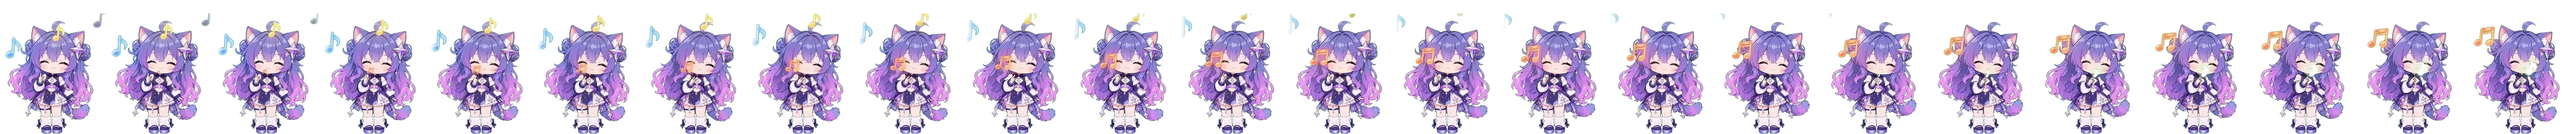
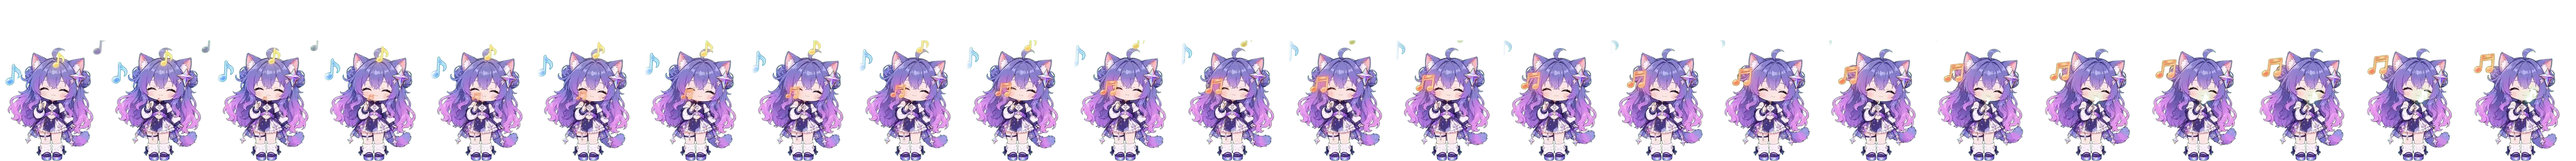
feat(mascot): 越界动作改用更高的格子
happy 与 idle-spout 的格子从 48×60 放大到 48×72，素材脚本按动作读格子高度；
精灵窗口改为贴容器底边往上长，音符与爱心不再被顶部裁掉。其他动作不变。

diff --git a/packages/client/src/features/mascot/sheets.ts b/packages/client/src/features/mascot/sheets.ts
@@ -152,21 +152,21 @@ export const GEMINI_FRAME_MS = 83
 export const GEMINI_SHEETS: Record<string, { frames: number, box: number[], still: number, columns: number }> = {
   'idle': { frames: 48, box: [0, 0, 48, 60], still: 0, columns: 48 },
   'idle-look': { frames: 24, box: [0, 0, 48, 60], still: 0, columns: 24 },
-  'idle-spout': { frames: 24, box: [0, 0, 48, 60], still: 0, columns: 24 },
+  'idle-spout': { frames: 24, box: [0, 0, 48, 72], still: 0, columns: 24 },
   'thinking': { frames: 24, box: [0, 0, 48, 60], still: 8, columns: 24 },
   'typing': { frames: 24, box: [0, 0, 48, 60], still: 8, columns: 24 },
   'music': { frames: 24, box: [0, 0, 48, 60], still: 0, columns: 24 },
   'conducting': { frames: 24, box: [0, 0, 48, 60], still: 0, columns: 24 },
   'building': { frames: 24, box: [0, 0, 48, 60], still: 0, columns: 24 },
   'error': { frames: 20, box: [0, 0, 48, 60], still: 0, columns: 20 },
-  'happy': { frames: 24, box: [0, 0, 48, 60], still: 0, columns: 24 },
+  'happy': { frames: 24, box: [0, 0, 48, 72], still: 0, columns: 24 },
   'notification': { frames: 20, box: [0, 0, 48, 60], still: 0, columns: 20 },
   'compacting': { frames: 24, box: [0, 0, 48, 60], still: 0, columns: 24 },
   'sleeping': { frames: 48, box: [0, 0, 48, 60], still: 0, columns: 48 },
   'waking': { frames: 24, box: [0, 0, 48, 60], still: 0, columns: 24 },
   'poke-left': { frames: 20, box: [0, 0, 48, 60], still: 0, columns: 20 },
   'poke-right': { frames: 20, box: [0, 0, 48, 60], still: 0, columns: 20 },
-  'tickle': { frames: 24, box: [0, 0, 48, 60], still: 0, columns: 24 },
+  'tickle': { frames: 24, box: [0, 0, 48, 72], still: 0, columns: 24 },
   'drag': { frames: 24, box: [0, 0, 48, 60], still: 0, columns: 24 },
   'landing': { frames: 6, box: [0, 0, 48, 60], still: 5, columns: 48 },
 }
@@ -181,14 +181,14 @@ export const QWEN_FRAME_MS = 83
 export const QWEN_SHEETS: Record<string, { frames: number, box: number[], still: number, columns: number }> = {
   'idle': { frames: 48, box: [0, 0, 48, 60], still: 0, columns: 48 },
   'idle-look': { frames: 24, box: [0, 0, 48, 60], still: 0, columns: 24 },
-  'idle-spout': { frames: 24, box: [0, 0, 48, 60], still: 0, columns: 24 },
+  'idle-spout': { frames: 24, box: [0, 0, 48, 72], still: 0, columns: 24 },
   'thinking': { frames: 24, box: [0, 0, 48, 60], still: 8, columns: 24 },
   'typing': { frames: 24, box: [0, 0, 48, 60], still: 8, columns: 24 },
   'music': { frames: 24, box: [0, 0, 48, 60], still: 0, columns: 24 },
   'conducting': { frames: 24, box: [0, 0, 48, 60], still: 0, columns: 24 },
   'building': { frames: 24, box: [0, 0, 48, 60], still: 0, columns: 24 },
   'error': { frames: 20, box: [0, 0, 48, 60], still: 0, columns: 20 },
-  'happy': { frames: 24, box: [0, 0, 48, 60], still: 0, columns: 24 },
+  'happy': { frames: 24, box: [0, 0, 48, 72], still: 0, columns: 24 },
   'notification': { frames: 24, box: [0, 0, 48, 60], still: 0, columns: 24 },
   'compacting': { frames: 24, box: [0, 0, 48, 60], still: 0, columns: 24 },
   'sleeping': { frames: 48, box: [0, 0, 48, 60], still: 0, columns: 48 },

diff --git a/packages/client/src/features/mascot/anime-pet.css b/packages/client/src/features/mascot/anime-pet.css
@@ -23,6 +23,13 @@ body[data-dsh-claude-style] :is(
   bottom: calc(100% - 7px);
 }
 
+/* A taller cell grows upward: the sprite's bottom edge stays on the
+   container's, so the pet keeps its feet on the card and takes the room
+   above it. */
+body[data-dsh-claude-style] :is(.dsh-claude-gemini, .dsh-claude-qwen) > :is(.dsh-claude-gemini-sprite, .dsh-claude-qwen-sprite) {
+  top: calc((60 - var(--dsh-claude-mascot-h, 60)) * 2px);
+}
+
 /* The resting girl's body, head to feet: most of the 96×120 box. */
 body[data-dsh-claude-style] :is(.dsh-claude-gemini-hit, .dsh-claude-qwen-hit) {
   position: absolute;

diff --git a/scripts/build-mascot-sheets.py b/scripts/build-mascot-sheets.py
@@ -214,16 +214,20 @@ def main():
             # The pack draws some actions smaller than the idle one; `scale`
             # lifts one back to the idle height, and whatever then stands
             # outside the cell is cropped off.
-            fit = min(base, OUT_W / width, OUT_H / height)
+            # An action may ask for a taller cell than the shared 48x60, so the
+            # art that would run past its top keeps the room it needs.
+            cell_h = action.get('cell', CELL_H)
+            out_h = cell_h * 4
+            fit = min(base, OUT_W / width, out_h / height)
             scale = fit * action.get('scale', 1)
-            strip = Image.new('RGBA', (frames * OUT_W, OUT_H), (0, 0, 0, 0))
+            strip = Image.new('RGBA', (frames * OUT_W, out_h), (0, 0, 0, 0))
             w = max(1, round(width * scale))
             h = max(1, round(height * scale))
             # Art wider or taller than the cell keeps its centre and ground
             # line; the edges it runs past fade out before the cell cuts them.
             left = max(0, (w - OUT_W) // 2)
-            top = max(0, h - OUT_H)
-            piece_size = (min(w, OUT_W), min(h, OUT_H))
+            top = max(0, h - out_h)
+            piece_size = (min(w, OUT_W), min(h, out_h))
             mask = None
             if top > 0 or w > OUT_W:
                 mask = edge_mask(piece_size, EDGE_FADE, top > 0, w > OUT_W)
@@ -233,16 +237,16 @@ def main():
                 piece = frame.crop((left, top, left + piece_size[0], top + piece_size[1]))
                 if mask is not None:
                     piece.putalpha(ImageChops.multiply(piece.getchannel('A'), mask))
-                strip.alpha_composite(piece, (index * OUT_W + max(0, (OUT_W - w) // 2), max(0, OUT_H - h)))
+                strip.alpha_composite(piece, (index * OUT_W + max(0, (OUT_W - w) // 2), max(0, out_h - h)))
             path = out_dir / f'{key}.webp'
             strip.save(path, 'WEBP', quality=82, method=6)
             derived[key] = {
                 'frames': frames,
-                'box': [0, 0, CELL_W, CELL_H],
+                'box': [0, 0, CELL_W, cell_h],
                 'still': min(action['still'], frames - 1),
                 'columns': frames,
                 'width': frames * OUT_W,
-                'height': OUT_H,
+                'height': out_h,
                 'source': action['id'],
                 'start': start,
             }
@@ -284,7 +288,8 @@ def main():
         print(f'\nexport const {name}_FRAME_MS = 83')
         print(f'export const {name}_SHEETS: Record<string, {{ frames: number, box: number[], still: number, columns: number }}> = {{')
         for state, meta in sheets.items():
-            print(f"  '{state}': {{ frames: {meta['frames']}, box: [0, 0, {CELL_W}, {CELL_H}], still: {meta['still']}, columns: {meta['columns']} }},")
+            box = meta['box']
+            print(f"  '{state}': {{ frames: {meta['frames']}, box: [0, 0, {box[2]}, {box[3]}], still: {meta['still']}, columns: {meta['columns']} }},")
         print('}')
 
 
